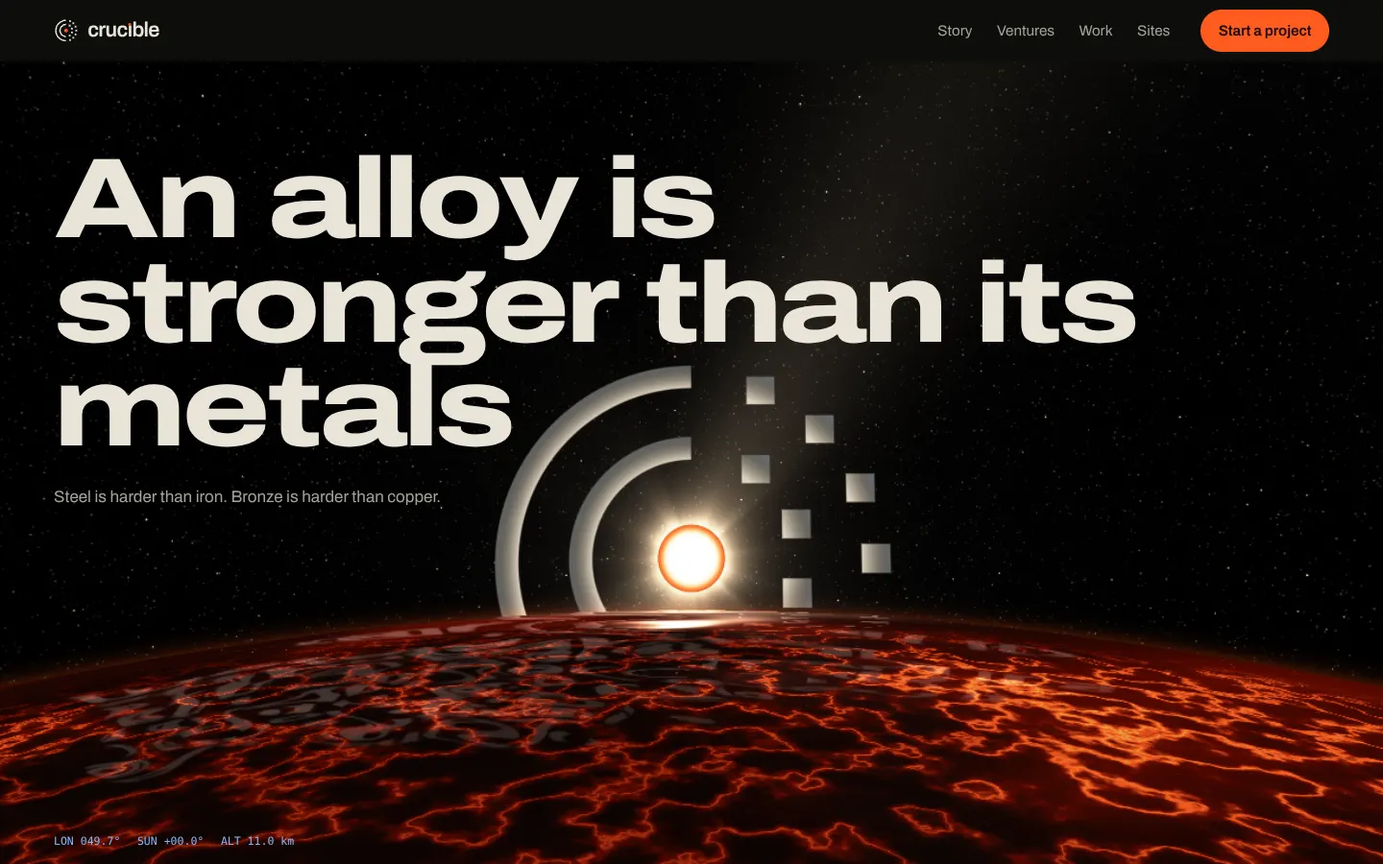
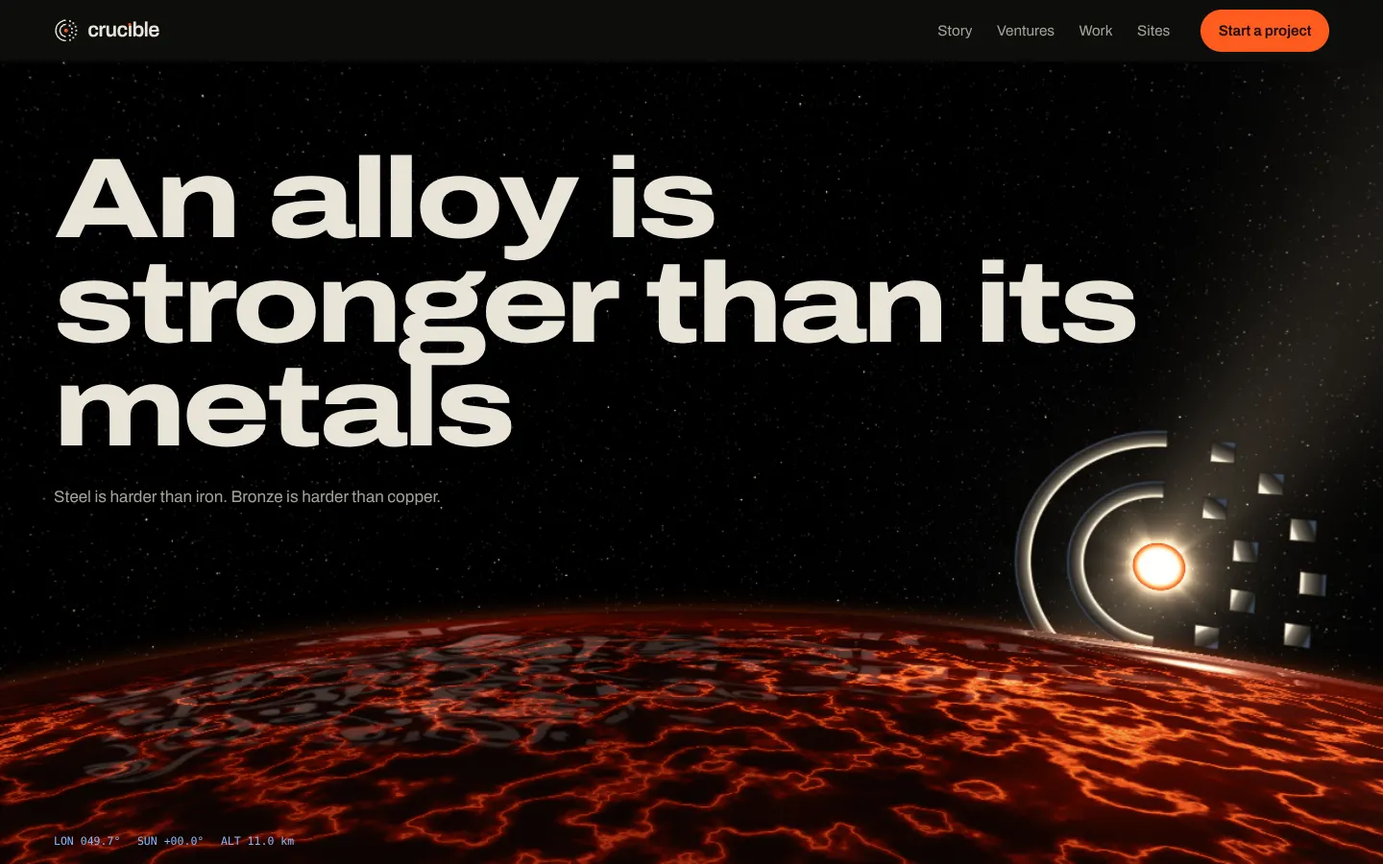
Airless: coordinator review fixes
Type and the mark never share the frame; the hero mark floats wholly above the
sea with its reflection; the halo is lit from the sun inside it; Jacob's line is
set once, in place; forging slabs glow seamlessly and are bigger on phones; no
glyph shadows (type sits on sand); PayPal becomes curving, branching rivers.

Claude-Session: https://claude.ai/code/session_01PrrUSitYmSR7aDjHHAhibr

diff --git a/concepts/airless/index.html b/concepts/airless/index.html
@@ -95,15 +95,16 @@ a { color: inherit; }
   position: absolute; left: var(--gut); right: var(--gut); bottom: clamp(1.5rem, 6vh, 4rem);
   display: grid; grid-template-columns: 1fr auto; align-items: end; gap: 1.5rem 3rem;
 }
-.hero h1 { font-size: clamp(3rem, 8.2vw, 8.6rem); grid-column: 1 / -1; }
+.hero h1 { font-size: clamp(3rem, 7vw, 7.4rem); grid-column: 1; grid-row: 1 / span 2; }
 .hero h1 .ln { display: block; }
-.hero .lede { grid-column: 1; }
-.hero .ctas { display: flex; gap: .75rem; flex-wrap: wrap; grid-column: 2; justify-self: end; }
+.hero .lede { grid-column: 2; grid-row: 1; align-self: end; }
+.hero .ctas { display: flex; gap: .75rem; flex-wrap: wrap; grid-column: 2; grid-row: 2; }
 .beats { position: absolute; left: var(--gut); right: var(--gut); bottom: clamp(2rem, 9vh, 5.5rem); pointer-events: none; }
 .beat { position: absolute; left: 0; bottom: 0; margin: 0; font-size: clamp(2.8rem, 9vw, 8.5rem); }
 .beat small { display: block; font-size: 1rem; font-weight: 400; font-stretch: 100%; letter-spacing: 0; line-height: 1.5; color: var(--bone-dim); margin-top: 1rem; max-width: 34ch; }
 @media (max-width: 760px) {
   .hero-copy { grid-template-columns: 1fr; bottom: 1.25rem; gap: 1rem; }
+  .hero h1, .hero .lede, .hero .ctas { grid-column: 1; grid-row: auto; }
   .hero .ctas { grid-column: 1; justify-self: start; }
   .hero h1 { font-size: clamp(2.4rem, 11.4vw, 5rem); font-stretch: 112%; }
   .beat { font-size: clamp(2.6rem, 13.5vw, 4.4rem); }
@@ -230,17 +231,17 @@ html[data-notext] main, html[data-notext] footer, html[data-notext] .readout, ht
   <section class="hero pin" id="top" data-scene="hero">
     <div class="stage">
       <div class="hero-copy" data-heroc>
-        <h1 class="display" data-reflect="shadow" data-shadow="0.95"><span class="ln">Intelligence,</span> <span class="ln">alloyed</span></h1>
-        <p class="lede" data-cool="0.8">Human judgment and machine range, fused into one material. Crucible is a studio that builds and ships ventures.</p>
+        <h1 class="display" data-reflect="shadow" data-shadow="0"><span class="ln">Intelligence,</span> <span class="ln">alloyed</span></h1>
+        <p class="lede">Human judgment and machine range, fused into one material. Crucible is a studio that builds and ships ventures.</p>
         <div class="ctas">
           <a class="btn" href="#ventures">See the ventures</a>
           <a class="btn ghost" href="#story">Why Crucible</a>
         </div>
       </div>
       <div class="beats" aria-hidden="true">
-        <p class="beat display" data-beat="0" data-fade data-reflect="shadow" data-shadow="0.9">Not the person<small>The machine half scatters.</small></p>
-        <p class="beat display" data-beat="1" data-fade data-reflect="shadow" data-shadow="0.9">Not the model<small>The human half leaves.</small></p>
-        <p class="beat display" data-beat="2" data-fade data-reflect="shadow" data-shadow="0.9">Neither, alone<small>Together they make the core burn.</small></p>
+        <p class="beat display" data-beat="0" data-fade data-reflect="shadow" data-shadow="0">Not the person<small>The machine half scatters.</small></p>
+        <p class="beat display" data-beat="1" data-fade data-reflect="shadow" data-shadow="0">Not the model<small>The human half leaves.</small></p>
+        <p class="beat display" data-beat="2" data-fade data-reflect="shadow" data-shadow="0">Neither, alone<small>Together they make the core burn.</small></p>
       </div>
     </div>
   </section>
@@ -260,10 +261,11 @@ html[data-notext] main, html[data-notext] footer, html[data-notext] .readout, ht
       <div class="words" data-cool>
         <p>My name is Jacob Schopp, and I am still in high school. Crucible, which I co-founded with Charlie Rochford, is the name we build our ventures under.</p>
         <p>Crucible started with a car ride, when my dad put on the audiobook of Walter Isaacson’s biography of Elon Musk. Most of what I took from it concerned Elon himself, but part of the book covers PayPal and the people who worked there before eBay bought the company in 2002. After the sale, members of that group went on to found YouTube, LinkedIn, Yelp and Palantir, while Elon used much of his share of the money to fund SpaceX and later to invest in Tesla. People call them the PayPal Mafia. It is interesting that so much came out of a single company, and I do not believe it was luck, the members being exceptional people who found each other early and continued to back one another long after PayPal itself was gone. When Jeremy Stoppelman and Russel Simmons set out to start Yelp, it was their former PayPal colleague Max Levchin who put up the first million dollars.</p>
+        <p>That group came together mostly in their twenties.</p>
         <p class="pull">I want to know what happens when a group like it comes together earlier.</p>
         <details>
           <summary>Keep reading</summary>
-          <p>That group came together mostly in their twenties. I want to know what happens when a group like it comes together earlier. Every high school has a handful of people who are already building things and thinking about problems far larger than the next test, yet most of them never meet, or they meet and nothing comes of it. The long-term goal of Crucible is to find those people while we are still young and to bring them together, so that between us we can create something generational.</p>
+          <p>Every high school has a handful of people who are already building things and thinking about problems far larger than the next test, yet most of them never meet, or they meet and nothing comes of it. The long-term goal of Crucible is to find those people while we are still young and to bring them together, so that between us we can create something generational.</p>
           <p>The name comes from what a crucible actually is, a vessel built to hold metal as it melts, in which separate metals can be combined into an alloy. Steel, being mostly iron with a small amount of carbon added, is far stronger than the iron it is made from. That is the idea behind the name, and it applies to the way people work with one another as much as it does to the way people work with AI. The logo is two rings, half drawn as continuous lines and half as pixels, meeting at an orange core. The human half and the machine half. I believe that people who learn to work alongside AI now, while they are young, will be able to build things that only a few years ago would have required a far larger and more experienced team.</p>
           <p>For now, Crucible has one venture, Crucible Sites, which designs and builds websites for local businesses. Charlie and I build the sites together, and our first ones are already lined up. It is small compared to what I want Crucible to become, and I know that. However it is real work, and it is where we are learning to ship.</p>
           <p>Some people hear all of this and find it unrealistic for someone my age, perhaps even egotistical. I can understand why they react that way. But if I commit myself fully to this and have even a .1% chance of building something that changes the world, would that not be worth it? I intend to find out, and maybe, years from now, the people who build it with me will have a name too.</p>
@@ -352,7 +354,7 @@ html[data-notext] main, html[data-notext] footer, html[data-notext] .readout, ht
   <section class="thesis pin" id="thesis" data-scene="thesis">
     <div class="stage">
       <div class="th-copy">
-        <h2 class="display" data-reflect="1" data-shadow="0.6">An alloy is stronger than its metals</h2>
+        <h2 class="display" data-reflect="1">An alloy is stronger than its metals</h2>
         <p data-cool>Steel is harder than iron. Bronze is harder than copper.</p>
       </div>
     </div>
@@ -361,7 +363,7 @@ html[data-notext] main, html[data-notext] footer, html[data-notext] .readout, ht
 
 <!-- 6. Down on the far shore. -->
 <footer class="foot" id="foot" data-scene="foot">
-  <p class="foot-giant" aria-hidden="true" data-reflect="1" data-shadow="0.3">cruc<span class="i">ı</span>ble</p>
+  <p class="foot-giant" aria-hidden="true" data-reflect="1">cruc<span class="i">ı</span>ble</p>
   <div class="foot-low">
     <div>
       <p class="label">Write to us</p>
@@ -510,7 +512,7 @@ float shoreLine(float u, float base){ return base + 1.3 * sin(u * 0.19 + 1.0) + 
 float sandH(vec2 w){
   float v = w.y; float h = -6.0;
   if (v < 60.0) {
-    float sl = shoreLine(w.x, 3.6);
+    float sl = shoreLine(w.x, 5.1);
     float l = (sl - v) * 0.09;
     l = l < 0.55 ? l : 0.55 + (l - 0.55) * 0.3;
     l += 0.1 * ridges(w, 1.2) * smoothstep(0.0, 3.0, sl - v);
@@ -533,7 +535,7 @@ float sandH(vec2 w){
   }
   return h;
 }
-float shoreBase(float v){ return v < 60.0 ? 3.6 : (v > 272.0 ? 305.0 : 105.0); }
+float shoreBase(float v){ return v < 60.0 ? 5.1 : (v > 272.0 ? 305.0 : 105.0); }
 // The surf: a level that runs up the beach fast and drains slowly, its phase wandering along the shore.
 float surgeF(float u, float base){ return fract(uT / 5.2 + 0.7 * vn(vec2(u * 0.028, base)) + u * 0.004); }
 float surgeL(float f){ return 0.17 * (smoothstep(0.0, 0.2, f) - smoothstep(0.2, 1.0, f)); }
@@ -598,8 +600,10 @@ vec4 halo(vec3 d, float pa){
     float dr = length(ma) - r;
     float cov = smoothstep(1.3 + px, 1.3 - px, abs(dr)) * endx * av;
     float rr = clamp(dr / 1.3, -1.0, 1.0);
-    float lit = pow(0.5 - 0.5 * rr, 1.6);
-    vec3 c = BONE * (0.34 + 0.62 * lit) * mix(vec3(1.0), SUNC, 0.3) + QUENCH * 0.16 * pow(0.5 + 0.5 * rr, 4.0);
+    // a round bar of bone metal around a sun: the face toward the core lit hot, the far face in shadow, a starlit rim
+    float lit = pow(clamp(0.5 - 0.5 * rr, 0.0, 1.0), 1.7);
+    float rim = smoothstep(-0.45, -0.92, rr);
+    vec3 c = BONE * (0.1 + 0.78 * lit) * mix(vec3(1.0), SUNC, 0.45) + SUNC * 0.55 * rim + QUENCH * 0.3 * smoothstep(0.55, 0.95, rr);
     col = mix(col, c, cov); a = max(a, cov);
   }
   float sm = uHalo.x;
@@ -618,8 +622,8 @@ vec4 halo(vec3 d, float pa){
       float cov = smoothstep(1.6 + px, 1.6 - px, b);
       vec2 toC = normalize(-p);
       float f = clamp(dot(q, toC) / 1.6, -1.0, 1.0);
-      float lit = pow(0.5 + 0.5 * f, 1.6);
-      vec3 c = BONE * (0.36 + 0.62 * lit) * mix(vec3(1.0), SUNC, 0.3) + QUENCH * 0.16 * pow(0.5 - 0.5 * f, 4.0);
+      float lit = pow(clamp(0.5 + 0.5 * f, 0.0, 1.0), 1.7);
+      vec3 c = BONE * (0.1 + 0.78 * lit) * mix(vec3(1.0), SUNC, 0.45) + SUNC * 0.5 * smoothstep(0.5, 0.92, f) + QUENCH * 0.3 * smoothstep(-0.55, -0.95, f);
       col = mix(col, c, cov); a = max(a, cov);
     }
   }
@@ -714,11 +718,11 @@ vec3 monoShade(int i, vec3 Pw, vec3 lp, vec3 nl, vec3 rd, float pa, float tt){
       c = mix(c, EMBER * (1.1 + 0.6 * heat), core);
     }
   } else {
-    // still forging: blackbody, a drifting crust with glowing cracks, hottest where it leaves the sea
-    float n1 = fbm(lp.xy * vec2(1.6, 1.0) * 1.7 + vec2(float(i) * 7.0, -uT * 0.12), 5);
-    float cr = pow(1.0 - abs(2.0 * n1 - 1.0), 7.0);
-    float T = 0.34 + 0.42 * lavaLight + cr * 0.32 + heat * 0.14 - 0.05 * max(dot(nW, up), 0.0);
-    if (abs(nl.y) > 0.5) T -= 0.06;
+    // still forging: one seamless glow, no crust; hottest where it leaves the sea, a slow breath of heat
+    float hf = (lp.y + E.y) / (2.0 * E.y);
+    float br = 0.025 * sin(uT * 0.9 + float(i) * 2.0) + 0.03 * (vn(vec2(lp.x * 0.6 + float(i) * 5.0, lp.y * 0.35 - uT * 0.25)) - 0.5);
+    float T = 0.6 + 0.3 * lavaLight - 0.1 * hf + br + heat * 0.12;
+    if (abs(nl.y) > 0.5) T -= 0.04;
     c = bb(clamp(T, 0.0, 0.97)) * 1.05;
     vec3 r = reflect(rd, nW); c += SUNC * pow(max(dot(r, S), 0.0), 40.0) * 0.15;
   }
@@ -784,32 +788,52 @@ vec3 lava(vec3 P, vec3 rd, float t, vec2 w, vec3 nUp, float pa, vec2 css, float 
   g += ring(w, uSunG.xy, 0.8, 0.12, 1.7, 14.0, fw) + ring(w, uSunG.xy, 1.9, 0.04, 2.8, 9.0, fw);
   float heat = 0.0;
   if (uPay.w > 0.0) {
-    // PayPal: one pool, one wave out of it; where the wave arrives, a casting ignites and keeps rippling.
+    // PayPal: one pool; the metal leaves it as rivers that curve and branch, each ending in a casting that ignites
+    // when the metal arrives and keeps rippling. Revealed by the wave out of PayPal; no spokes, no ring round it.
     vec2 c = uPay.xy; float p = uPay.z; float dc = length(w - c) + 1e-3;
     float front = p * 24.0;
     float on = smoothstep(0.0, 0.05, p);
     float aa = fw * 1.5 + 0.02;
-    float fr = exp(-pow((dc - front) / 0.5, 2.0)) * on * (1.0 - smoothstep(0.75, 1.0, p)) * smoothstep(1.0, 3.0, dc);
-    g += vec3(0.1 * fr, -0.4 * (dc - front) * fr * (w - c) / dc);
-    heat += 0.3 * fr;
-    float rc = 1.25;
-    heat += on * (0.62 * smoothstep(rc + aa, rc - aa, dc) + 0.16 * smoothstep(rc + 0.6, rc, dc) + 0.12 * exp(-dc * dc / 6.0));
-    heat += on * 0.3 * smoothstep(0.86, 1.0, sin(dc * 1.4 - uT * 2.2)) * exp(-(dc - rc) / 4.5) * step(rc, dc) * smoothstep(front + 0.5, front - 1.5, dc);
-    g += ring(w, c, 1.4, 0.05 * on, 2.2, 7.0, fw);
+    float fr = exp(-pow((dc - front) / 0.6, 2.0)) * on * (1.0 - smoothstep(0.75, 1.0, p)) * smoothstep(1.0, 3.0, dc);
+    g += vec3(0.08 * fr, -0.3 * (dc - front) * fr * (w - c) / dc);
+    float rc = 1.25 + 0.18 * (vn(vec2(atan(w.y - c.y, w.x - c.x) * 2.0, 1.0)) - 0.5);
+    heat += on * (0.62 * smoothstep(rc + aa, rc - aa, dc) + 0.12 * smoothstep(rc + 0.6, rc, dc));
+    g += ring(w, c, 1.4, 0.04 * on, 2.2, 6.0, fw);
+    float shown = smoothstep(front + 0.3, front - 0.8, dc);
+    float riv = 0.0;
+    for (int gi = 0; gi < 3; gi++){
+      vec2 sa = uPayS[gi * 2].xy, sb = uPayS[gi * 2 + 1].xy;
+      vec2 J = c + ((sa + sb) * 0.5 - c) * 0.46;
+      // the trunk to the fork
+      vec2 ab = J - c; float L = length(ab); vec2 dir = ab / L; vec2 nr = vec2(-dir.y, dir.x);
+      float tt = dot(w - c, dir) / L; float lat = dot(w - c, nr);
+      float ofs = (1.6 * sin(PI * clamp(tt, 0.0, 1.0)) * (float(gi) - 1.0 + 0.5)) + 0.35 * sin(tt * L * 0.7 + float(gi) * 2.0) * clamp(tt, 0.0, 1.0);
+      float flow = vn(vec2(tt * L * 1.1 - uT * 1.9, float(gi) * 3.0));
+      float wid = mix(0.42, 0.26, clamp(tt, 0.0, 1.0)) * (0.85 + 0.3 * flow) + aa * 0.5;
+      float inT = step(0.0, tt) * step(tt, 1.02);
+      riv = max(riv, inT * smoothstep(wid + aa, wid - aa, abs(lat - ofs)) * (0.6 + 0.4 * flow));
+      vec2 Jc = J + nr * (1.6 * sin(PI * 1.0) * (float(gi) - 0.5));
+      for (int k = 0; k < 2; k++){
+        vec2 s = k == 0 ? sa : sb;
+        vec2 ab2 = s - J; float L2 = length(ab2); vec2 d2 = ab2 / L2; vec2 n2 = vec2(-d2.y, d2.x);
+        float t2 = dot(w - J, d2) / L2; float l2 = dot(w - J, n2);
+        float side = k == 0 ? 1.0 : -1.0;
+        float o2 = side * 1.1 * sin(PI * clamp(t2, 0.0, 1.0)) + 0.25 * sin(t2 * L2 * 0.9 + float(gi * 2 + k)) * clamp(t2, 0.0, 1.0);
+        float f2 = vn(vec2(t2 * L2 * 1.2 - uT * 2.1, float(gi * 2 + k) * 5.0));
+        float w2 = mix(0.26, 0.13, clamp(t2, 0.0, 1.0)) * (0.85 + 0.3 * f2) + aa * 0.5;
+        float in2 = step(-0.02, t2) * step(t2, 1.0);
+        riv = max(riv, in2 * smoothstep(w2 + aa, w2 - aa, abs(l2 - o2)) * (0.55 + 0.45 * f2));
+      }
+    }
+    heat += 0.42 * riv * shown * uPay.w;
     for (int i = 0; i < 6; i++){
       vec2 s = uPayS[i].xy; float act = smoothstep(uPayS[i].z, uPayS[i].z + 0.05, p);
-      float ds = length(w - s) + 1e-3; float rp = 0.8 * (0.6 + 0.4 * act);
-      heat += act * (0.6 * smoothstep(rp + aa, rp - aa, ds) + 0.14 * smoothstep(rp + 0.5, rp, ds) + 0.08 * exp(-ds * ds / 4.0));
+      float ds = length(w - s) + 1e-3;
+      float rp = (0.75 + 0.15 * (vn(vec2(atan(w.y - s.y, w.x - s.x) * 1.5, float(i) * 4.0)) - 0.5)) * (0.6 + 0.4 * act);
+      heat += act * (0.6 * smoothstep(rp + aa, rp - aa, ds) + 0.12 * smoothstep(rp + 0.45, rp, ds));
       float grow = clamp((p - uPayS[i].z) * 40.0, 0.0, 30.0);
-      heat += act * 0.26 * smoothstep(0.86, 1.0, sin(ds * 1.6 - uT * 2.6)) * exp(-(ds - rp) / 3.5) * step(rp, ds) * smoothstep(grow, grow - 2.0, ds);
+      heat += act * 0.2 * smoothstep(0.88, 1.0, sin(ds * 1.6 - uT * 2.6)) * exp(-(ds - rp) / 3.0) * step(rp + 0.3, ds) * smoothstep(grow, grow - 2.0, ds);
       g += ring(w, s, 1.6, 0.04 * act, 2.6, 5.0, fw);
-      // the channel the metal ran along: a thin current, still flowing
-      vec2 ab = s - c; float L = length(ab);
-      float hh = clamp(dot(w - c, ab) / (L * L), 0.0, 1.0); float dl = length(w - c - ab * hh);
-      float reach = clamp(front / L, 0.0, 1.0);
-      float flow = vn(vec2(hh * L * 1.2 - uT * 2.0, float(i) * 3.0));
-      float wid = 0.1 + 0.05 * flow + aa * 0.5;
-      heat += 0.36 * smoothstep(wid + aa, wid - aa * 0.5, dl) * smoothstep(reach + 0.002, reach - 0.03, hh) * (0.5 + 0.5 * flow) * step(rc / L, hh) * step(hh, 1.0 - rp / L) * uPay.w;
     }
   }
   if (uMonOn > 0.0) {
@@ -1092,27 +1116,30 @@ const at = (s, f) => { const x = SEC[s]; return x.top + f * Math.max(x.h - H, 0)
    sz size (× the hero's), moon: az/el (deg), halo visibility. The journey: shore → open sea → the PayPal wave → over a
    sand island → the slabs → up above the limb → down on the far shore. */
 function keys() {
-  const D = { dm: 0, saz: 0, sel: 0, calm: 0, sz: 1, halo: 1, yaw: 0 };
+  const D = { dm: 0, saz: 0, sel: 0, calm: 0, sz: 1, halo: 1, yaw: 0, float: 0 };
+  const BEHIND = { dm: 1, saz: 168, sel: 8, halo: 0 }; // the sun behind the camera: type has the sky to itself
   return [
-    { y: 0,                       ph: { pitch: -15 }, s: 0,     h: 1.55, pitch: -7.5, dv: 24,  u: 0,   hy: 2.5,  maz: -27, mel: 21 },
-    { y: at('hero', 0.82),        ph: { pitch: -14 }, s: 2.0,   h: 1.7,  pitch: -7.0, dv: 24,  u: 0,   hy: 2.6,  maz: -26, mel: 22 },
-    { y: at('story', 0),          s: 26,    h: 3.4,  pitch: -16,  yaw: 6,   dv: 40,  u: -10, hy: 7.5, sz: 0.85, maz: -30, mel: 24, halo: 0.9, calm: 0.3 },
-    { y: at('story', 1),          s: 50,    h: 3.8,  pitch: -18,  yaw: 10,  dv: 46,  u: -18, hy: 10,  sz: 0.8, maz: -20, mel: 26, halo: 0.85, calm: 0.3 },
-    { y: at('paypal', 0.05),      s: 64,    h: 9,    pitch: -38,  dv: 60,  u: 26,  hy: 26,  sz: 0.7, maz: -38, mel: 22, halo: 0.8, calm: 1 },
-    { y: at('paypal', 0.95),      s: 67,    h: 10,   pitch: -41,  dv: 64,  u: 30,  hy: 30,  sz: 0.7, maz: -36, mel: 24, halo: 0.8, calm: 1 },
-    { y: at('story2', 0),         s: 92,    h: 4.4,  pitch: -10,  yaw: -8,  dv: 50,  u: 34,  hy: 14,  sz: 0.8, maz: -50, mel: 16, halo: 0.85, calm: 0.3 },
-    { y: at('story2', 1),         s: 116,   h: 4.0,  pitch: -9,   yaw: -12, dv: 44,  u: 30,  hy: 9,   sz: 0.85, maz: -56, mel: 14, halo: 0.9, calm: 0.3 },
-    { y: at('ventures', 0.02),    ph: { pitch: -11, h: 3.2 }, s: 140,   h: 2.3,  pitch: -3,   dv: 50,  u: 3,   hy: 5.5, sz: 0.85, maz: 40, mel: 22, calm: 0.45 },
-    { y: at('ventures', 0.98),    ph: { pitch: -11, h: 3.4 }, s: 143,   h: 2.5,  pitch: -3,   dv: 50,  u: 3,   hy: 6.0, sz: 0.85, maz: 42, mel: 23, calm: 0.45 },
-    { y: at('thesis', 0.02),      s: 172,   h: 8,    pitch: -6,   dv: 70,  u: 0,   hy: 3,   maz: -34, mel: 28, calm: 0.2 },
-    // high above the limb: the planet's curve, the sun rising off its edge
-    { y: at('thesis', 0.9),       s: 196,   h: 58,   pitch: -34,  dv: 70,  u: 0,   hy: 3,   dm: 1, saz: 0, sel: -40.5, sz: 1.05, ph: { sz: 0.7, sel: -42 }, maz: -30, mel: -12, calm: 0.2 },
+    // hero: the mark floats wholly above the sea (float: its lowest square clears the horizon), reflected below
+    { y: 0,                       ph: { pitch: -10, sz: 0.82 }, s: 0,     h: 1.55, pitch: -8.5, dv: 24, u: 0, hy: 2.5, float: 1, maz: -27, mel: 21 },
+    { y: at('hero', 0.97),        ph: { pitch: -9.8, sz: 0.82 }, s: 1.0,   h: 1.62, pitch: -8.3, dv: 24, u: 0, hy: 2.6, float: 1, maz: -26, mel: 22 },
+    { y: at('story', 0),          s: 26,    h: 3.4,  pitch: -16,  yaw: 6,   dv: 40,  u: -10, hy: 7.5, ...BEHIND, maz: -30, mel: 24, calm: 0.3 },
+    { y: at('story', 1),          s: 50,    h: 3.8,  pitch: -18,  yaw: 10,  dv: 46,  u: -18, hy: 10,  ...BEHIND, maz: -20, mel: 26, calm: 0.3 },
+    { y: at('paypal', 0.05),      s: 64,    h: 9,    pitch: -38,  dv: 60,  u: 26,  hy: 26,  ...BEHIND, maz: -38, mel: 22, calm: 1 },
+    { y: at('paypal', 0.95),      s: 67,    h: 10,   pitch: -41,  dv: 64,  u: 30,  hy: 30,  ...BEHIND, maz: -36, mel: 24, calm: 1 },
+    { y: at('story2', 0),         s: 92,    h: 4.4,  pitch: -10,  yaw: -8,  dv: 50,  u: 34,  hy: 14,  ...BEHIND, maz: -50, mel: 16, calm: 0.3 },
+    { y: at('story2', 1),         s: 116,   h: 4.0,  pitch: -9,   yaw: -12, dv: 44,  u: 30,  hy: 9,   ...BEHIND, maz: -56, mel: 14, calm: 0.3 },
+    // ventures: the sun low behind the slabs, under the heading's line
+    { y: at('ventures', 0.02),    ph: { pitch: -9, h: 3.0, s: 145, hy: 3.6, sz: 0.62 }, s: 140, h: 2.3, pitch: -3, dv: 50, u: 3, hy: 4.6, sz: 0.75, maz: 40, mel: 22, calm: 0.45 },
+    { y: at('ventures', 0.98),    ph: { pitch: -9, h: 3.1, s: 148, hy: 3.8, sz: 0.62 }, s: 143, h: 2.5, pitch: -3, dv: 50, u: 3, hy: 5.0, sz: 0.75, maz: 42, mel: 23, calm: 0.45 },
+    // thesis: the sun off to the right of the type, then rising off the limb below it
+    { y: at('thesis', 0.02),      ph: { u: 0, hy: -1, sz: 0.6 }, s: 172, h: 8, pitch: -6, dv: 70, u: 40, hy: 6, sz: 0.85, maz: -34, mel: 28, calm: 0.2 },
+    { y: at('thesis', 0.9),       ph: { saz: 0, sel: -43.2, sz: 0.55 }, s: 196, h: 58, pitch: -34, dv: 70, u: 0, hy: 3, dm: 1, saz: 24, sel: -41.6, sz: 0.85, maz: -30, mel: -12, calm: 0.2 },
     { y: at('foot', 0) - H * 0.6, s: 290,   h: 7,    pitch: -10,  dv: 40,  u: 0,   hy: 2,   sz: 0.8, maz: 40, mel: 14, halo: 0, calm: 0 },
     { y: at('foot', 0),           s: 301.6, h: 1.6,  pitch: -9,   dv: 30,  u: 0,   hy: 0.75, sz: 0.75, maz: 36, mel: 16, halo: 0, calm: 0 },
   ].map((k) => ({ ...D, ...k, ...(narrow && k.ph ? k.ph : {}) }));
 }
 let KEYS = [];
-const KF = ['s', 'h', 'pitch', 'yaw', 'dv', 'u', 'hy', 'sz', 'maz', 'mel', 'halo', 'dm', 'saz', 'sel', 'calm'];
+const KF = ['s', 'h', 'pitch', 'yaw', 'dv', 'u', 'hy', 'sz', 'maz', 'mel', 'halo', 'dm', 'saz', 'sel', 'calm', 'float'];
 function journey(y) {
   const K = KEYS; if (!K.length) return K[0];
   if (y <= K[0].y) return K[0];
@@ -1220,7 +1247,7 @@ function ppLayout() {
   Object.assign(cam, camFrom(k));
   const spots = narrow
     ? { c: [0.5, 0.62], p: [[0.2, 0.5], [0.24, 0.8], [0.56, 0.9], [0.84, 0.74], [0.8, 0.5], [0.52, 0.44]] }
-    : { c: [0.6, 0.56], p: [[0.37, 0.64], [0.46, 0.83], [0.74, 0.82], [0.88, 0.6], [0.84, 0.36], [0.62, 0.3]] };
+    : { c: [0.6, 0.56], p: [[0.37, 0.62], [0.47, 0.78], [0.73, 0.78], [0.88, 0.58], [0.84, 0.36], [0.62, 0.3]] };
   const toSea = ([fx, fy]) => { const h = hitSea(rayAt(fx * W, fy * H)) || { u: 0, v: k.s + 10 }; return { u: h.u, v: h.v }; };
   const c = toSea(spots.c); PP.cu = c.u; PP.cv = c.v;
   PP.pts = spots.p.map((q) => ({ ...toSea(q), d: 0 }));
@@ -1255,7 +1282,7 @@ function frameState(dt) {
   heroC.style.opacity = 1 - sstep(0.04, 0.12, hp);
   heroC.style.transform = `translateY(${-sstep(0.02, 0.14, hp) * 6}vh)`;
   heroC.style.visibility = hp > 0.13 ? 'hidden' : '';
-  const bw = [[0.16, 0.22, 0.36, 0.42], [0.42, 0.48, 0.6, 0.66], [0.66, 0.72, 2, 2]];
+  const bw = [[0.16, 0.22, 0.36, 0.42], [0.42, 0.48, 0.6, 0.66], [0.66, 0.72, 0.93, 0.99]];
   beats.forEach((b, i) => {
     const [a0, a1, b0, b1] = bw[i]; const o = sstep(a0, a1, hp) * (1 - sstep(b0, b1, hp));
     b.style.opacity = o; b.style.transform = `translateY(${(1 - sstep(a0, a1, hp)) * 3 - sstep(b0, b1, hp) * 3}vh)`;
@@ -1270,11 +1297,17 @@ function render(dt) {
   const k = J;
 
   // the sun: placed on the planet's surface frame (ahead dv, aside u, height hy), so the ripples sit right under it
-  const sunSz = Math.min(W * 0.045, H * 0.038) * k.sz * (narrow ? 1.15 : 1);
+  const sunSz = Math.min(W * 0.045, H * 0.028) * k.sz * (narrow ? 1.15 : 1);
   const sw = world(k.u, cam.s + k.dv, k.hy, cam.s);
   const sd = V.sub(sw, [0, cam.h, 0]); const sdist = Math.hypot(...sd);
-  const saz = (k.saz * Math.PI) / 180, sel0 = (k.sel * Math.PI) / 180;
-  const sdir = V.norm(V.add(V.mul(V.norm(sd), 1 - k.dm), V.mul([Math.sin(saz) * Math.cos(sel0), Math.sin(sel0), -Math.cos(saz) * Math.cos(sel0)], k.dm)));
+  let saz = (k.saz * Math.PI) / 180, sel0 = (k.sel * Math.PI) / 180, dm = k.dm;
+  if (k.float > 0) {
+    // the halo reaches 20/3.6 sun radii below the core; keep all of it (plus a gap) above the sea's horizon
+    const dip = Math.acos(R / (R + cam.h));
+    const az0 = Math.atan2(sd[0], -sd[2]);
+    saz = mix(saz, az0, k.float); sel0 = mix(sel0, -dip + Math.atan((sunSz * (20 / 3.6) * 1.06 + 12) / F), k.float); dm = Math.max(dm, k.float);
+  }
+  const sdir = V.norm(V.add(V.mul(V.norm(sd), 1 - dm), V.mul([Math.sin(saz) * Math.cos(sel0), Math.sin(sel0), -Math.cos(saz) * Math.cos(sel0)], dm)));
   const sAng = Math.atan(sunSz / F);
   const maz = (k.maz * Math.PI) / 180, mel = (k.mel * Math.PI) / 180;
   const mdir = [Math.sin(maz) * Math.cos(mel), Math.sin(mel), -Math.cos(maz) * Math.cos(mel)];

diff --git a/concepts/airless/NOTES.md b/concepts/airless/NOTES.md
@@ -28,6 +28,15 @@ Ember stays the only hot UI colour: the core, the CTAs, the "Live" dot, the ı d
 - **Reduced motion.** The clock is frozen at a chosen frame, there is no sim, and the page re-renders only on scroll, so every scene is a still. With no JS or no WebGL2 the page falls back to a dark molten-glow background with all content readable.
 - **Test hooks.** `?t=<s>` holds the clock, `?q=<0-5>` sets quality, `?notext` hides the DOM; `window.__step(dt)`, `__hold()`, `__resume()`, `__state()`.
 
+## Round 2 (coordinator review)
+- **Type never shares the frame with the mark.** The hero mark sits above the sea and the type sits on black sand. In the story, PayPal and Charlie's chapter the camera faces away from the sun, so the type has the night sky to itself. In ventures the sun sits low behind the slabs, under the heading. In the thesis it sits to the right of the type, then rises off the limb below it. Phones get their own keyframe overrides.
+- **The whole mark floats above the sea.** In the hero the sun is placed by angle so its lowest square clears the horizon plus a gap. The sea reflects the mark, broken by the swell.
+- **The halo is lit from the sun inside it.** Hot inner rims face the core, the far faces are dark, and a starlit Quench rim runs along the outer edges.
+- **Jacob's sentence appears once.** It is set in place inside his paragraph as the display break-out; the text itself is unedited, only split around the break-out.
+- **Verge and Trellis are one seamless glow,** with no crust or cracks: hottest where they leave the sea, with a slow breath of heat. They are bigger on phones (the camera moves closer).
+- **No glyph shadows behind type.** Legibility comes from composition.
+- **PayPal is organic.** Three curving trunks of varied width leave the pool, fork, and taper into the six castings, revealed by PayPal's wave and flowing. There are no straight spokes and no ring around PayPal.
+
 ## Tested (Playwright Chromium with SwiftShader, deterministic frames via `?t` and `__step`)
 - **Hero:** idle over about 5 s in 8 frames (swash runs up and drains, crests come in, glitter moves); the three beats; 2× crops of the shoreline. That found and fixed a black contour line at the waterline caused by a wrong inverse of the drain curve.
 - **Cursor:** medium and fast strokes. A first version made a lasting trough (net volume), then glare; the dipole source plus curvature glow fixed both.
